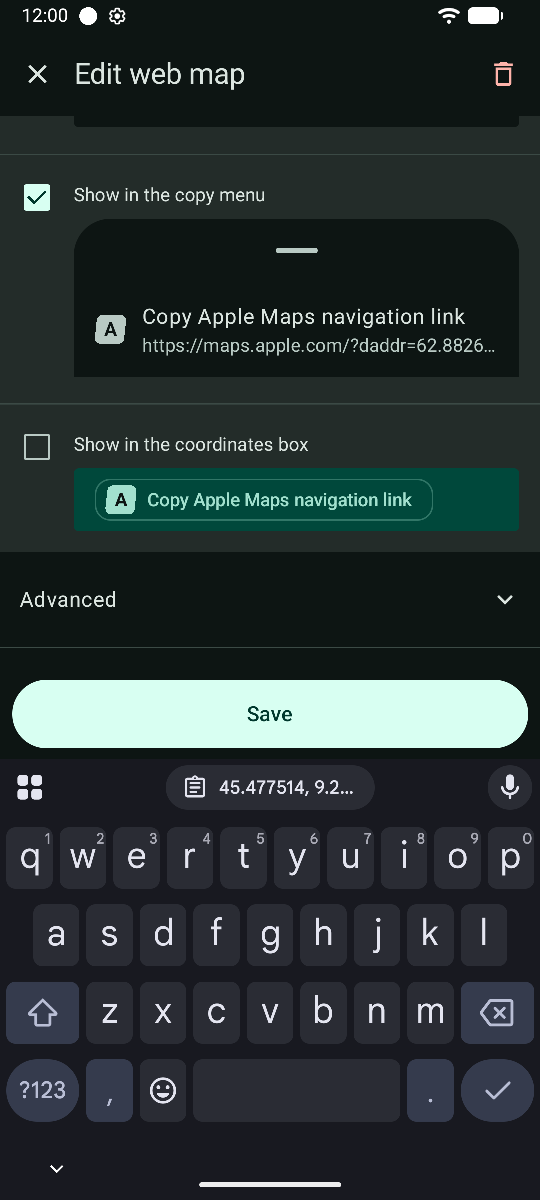
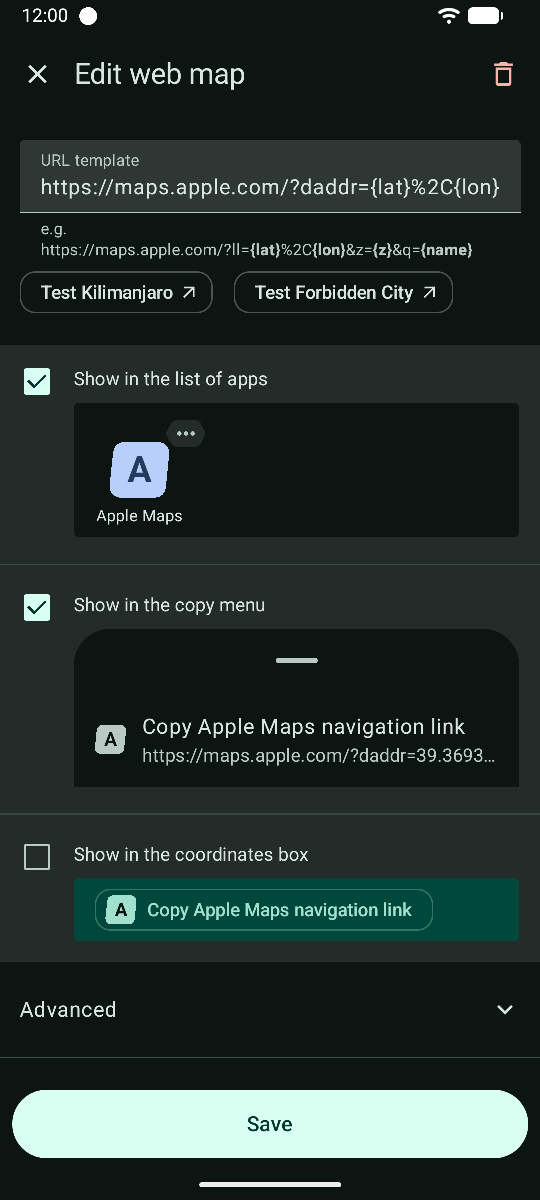
Fix keyboard hiding in screenshots
And update screenshots

diff --git a/app/src/androidTestFree/java/page/ooooo/geoshare/screenshots/ScreenshotsManagedDeviceFreeBehaviorTest.kt b/app/src/androidTestFree/java/page/ooooo/geoshare/screenshots/ScreenshotsManagedDeviceFreeBehaviorTest.kt
@@ -1,6 +1,7 @@
 package page.ooooo.geoshare.screenshots
 
 import android.view.inputmethod.InputMethodManager
+import androidx.core.content.getSystemService
 import androidx.test.platform.app.InstrumentationRegistry
 import androidx.test.uiautomator.Direction
 import androidx.test.uiautomator.UiAutomatorTestScope
@@ -123,7 +124,6 @@ class ScreenshotsManagedDeviceFreeBehaviorTest {
         testConversionPermission()
         testConversionResultApps()
         testConversionResultChecks()
-        testConversionResultPointName()
         testConversionResultPoints()
         testMain()
         testInputs()
@@ -399,21 +399,6 @@ class ScreenshotsManagedDeviceFreeBehaviorTest {
         goBackToMainForm()
     }
 
-    fun testConversionResultPointName() = uiAutomator {
-        shareUri(WGS84Point(52.47254, 13.4345, name = "Marked Location", source = Source.GENERATED))
-
-        // Conversion - Result - Sheet - Page 1 name
-        onElement { viewIdResourceName == "geoShareResultCopy" }.click()
-        onElement { viewIdResourceName == "geoShareResultSheet" }.apply {
-            expandSheet()
-            quickWaitForStableInActiveWindow()
-            saveScreenshot("main_strings/conversion_result_sheet_page_1_name")
-            collapseSheet()
-        }
-
-        goBackToMainForm()
-    }
-
     fun testConversionResultPoints() = uiAutomator {
         shareUri("https://www.openstreetmap.org/relation/910699")
         grantConnectionPermission()
@@ -540,6 +525,7 @@ class ScreenshotsManagedDeviceFreeBehaviorTest {
         onElement { viewIdResourceName == "geoShareFaqItem_${FaqItemId.PRIVACY}" }.click()
         quickWaitForStableInActiveWindow()
         saveScreenshot("main_strings/faq_privacy_considerations")
+        saveScreenshot("free_strings/faq_privacy_considerations")
 
         goBackToMainForm()
     }
@@ -872,18 +858,14 @@ class ScreenshotsManagedDeviceFreeBehaviorTest {
             viewIdResourceName == "geoShareAppShare"
         }
 
-    private fun isKeyboardOpen(): Boolean {
-        val context = InstrumentationRegistry.getInstrumentation().targetContext
-        val inputMethodManager = context.getSystemService(InputMethodManager::class.java)
-        return inputMethodManager.isAcceptingText()
-    }
-
     private fun UiAutomatorTestScope.hideKeyboard() {
-        if (isKeyboardOpen()) {
-            device.executeShellCommand(
-                @Suppress("GrazieInspectionRunner", "SpellCheckingInspection")
-                "input keyevent 111"
-            )
+        val context = InstrumentationRegistry.getInstrumentation().targetContext
+        val inputMethodManager = context.getSystemService<InputMethodManager>()
+        requireNotNull(inputMethodManager)
+        if (inputMethodManager.isAcceptingText()) {
+            @Suppress("GrazieInspectionRunner", "SpellCheckingInspection")
+            // Press back to hide keyboard, because it's more reliable than executing the command `input keyevent 111`
+            pressBack()
         }
     }
 

diff --git a/app/src/androidTest/java/page/ooooo/geoshare/tests/BehaviorTest.kt b/app/src/androidTest/java/page/ooooo/geoshare/tests/BehaviorTest.kt
@@ -1,6 +1,5 @@
 package page.ooooo.geoshare.tests
 
-import android.content.Context
 import android.content.Intent
 import android.graphics.Bitmap
 import android.location.Location
@@ -9,6 +8,7 @@ import android.location.provider.ProviderProperties
 import android.os.Build
 import android.os.SystemClock
 import android.view.accessibility.AccessibilityNodeInfo
+import androidx.core.content.getSystemService
 import androidx.core.graphics.scale
 import androidx.test.platform.app.InstrumentationRegistry
 import androidx.test.platform.io.PlatformTestStorageRegistry
@@ -866,8 +866,9 @@ fun UiAutomatorTestScope.mockLocation(block: MockLocationScope.() -> Unit) {
         "appops set ${BuildConfig.APPLICATION_ID} android:mock_location allow"
     )
 
-    val context: Context = InstrumentationRegistry.getInstrumentation().targetContext
-    val locationManager: LocationManager = context.getSystemService(LocationManager::class.java)
+    val context = InstrumentationRegistry.getInstrumentation().targetContext
+    val locationManager = context.getSystemService<LocationManager>()
+    requireNotNull(locationManager)
     val mockProviderName = LocationManager.GPS_PROVIDER
 
     locationManager.addTestProvider(
